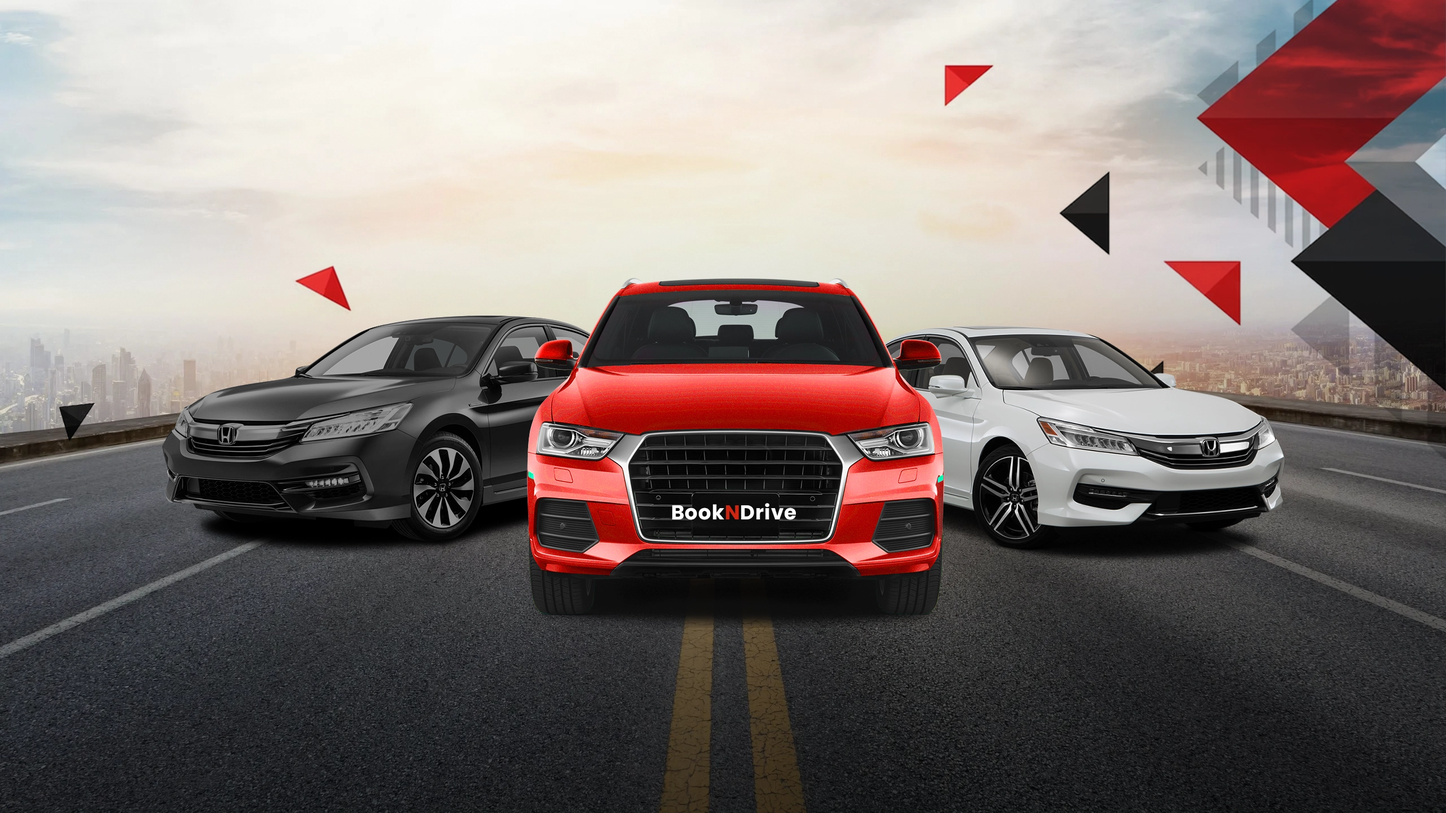
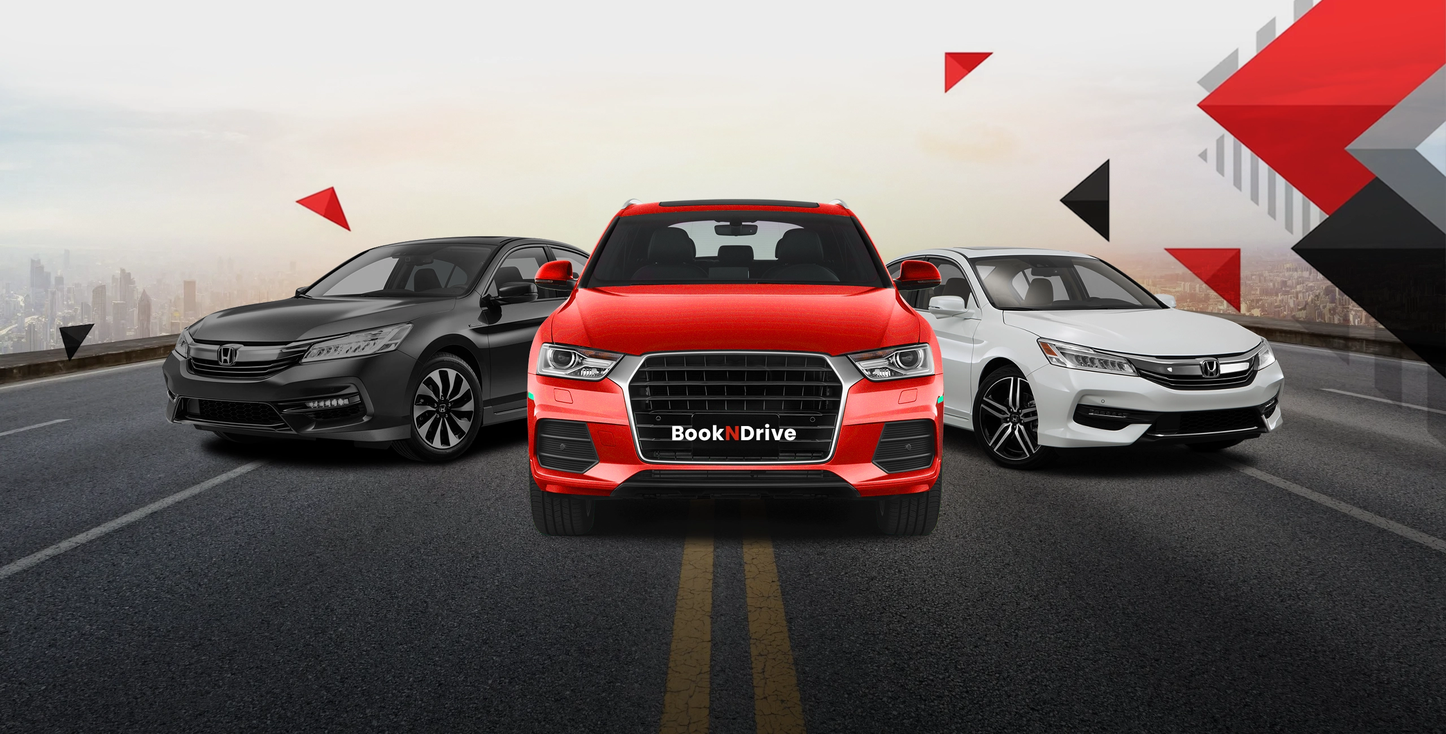
update

diff --git a/src/components/home/hero.js b/src/components/home/hero.js
@@ -4,7 +4,7 @@ import { Link } from "react-router-dom";
 import { Col, Container, Row } from "react-bootstrap";
 import "slick-carousel/slick/slick.css";
 import "slick-carousel/slick/slick-theme.css";
-import hero1 from "../../img/bg-theme.svg";
+import hero1 from "../../img/home_banner.webp";
 import hero2 from "../../img/banner-2.jpg";
 import TopHeader from '../../components/TopHeader';
 import Logo from "../../img/Bookndrive_logo_white.png";
@@ -42,33 +42,33 @@ const Hero = () => {
                         style={{ backgroundImage: `url(${hero1})` }}
                     >
                         <div className="rent-drive-main-caption">
-                          
-                                <Container className="mt-1">
-                                    <Row className="align-items-center h-100">
-                                    
-                                  
+
+                            <Container className="mt-1">
+                                <Row className="align-items-center h-100">
+
+
                                     <Col md={6} className="font-slidwe">
-                                    
-                                    <div>
+
+                                        <div>
                                             <span className="p-2 rounded bg-light mb-2 d-inline-block">
-                                            <svg xmlns="http://www.w3.org/2000/svg" width="18" height="18" fill="currentColor" class="bi bi-hand-thumbs-up-fill text-theme me-1 " viewBox="0 0 16 16"> <path d="M6.956 1.745C7.021.81 7.908.087 8.864.325l.261.066c.463.116.874.456 1.012.965.22.816.533 2.511.062 4.51a9.84 9.84 0 0 1 .443-.051c.713-.065 1.669-.072 2.516.21.518.173.994.681 1.2 1.273.184.532.16 1.162-.234 1.733.058.119.103.242.138.363.077.27.113.567.113.856 0 .289-.036.586-.113.856-.039.135-.09.273-.16.404.169.387.107.819-.003 1.148a3.163 3.163 0 0 1-.488.901c.054.152.076.312.076.465 0 .305-.089.625-.253.912C13.1 15.522 12.437 16 11.5 16H8c-.605 0-1.07-.081-1.466-.218a4.82 4.82 0 0 1-.97-.484l-.048-.03c-.504-.307-.999-.609-2.068-.722C2.682 14.464 2 13.846 2 13V9c0-.85.685-1.432 1.357-1.615.849-.232 1.574-.787 2.132-1.41.56-.627.914-1.28 1.039-1.639.199-.575.356-1.539.428-2.59z"/> </svg>
-                                                100% Trusted car rental platform in the world.</span>
-                                            <div> 
-                                                <span className="hero-title-1">Find Your Best </span>
-                                                <span className="hero-title-2">Dream Control for Rental</span>
+                                                <svg xmlns="http://www.w3.org/2000/svg" width="18" height="18" fill="currentColor" class="bi bi-hand-thumbs-up-fill text-theme me-1 " viewBox="0 0 16 16"> <path d="M6.956 1.745C7.021.81 7.908.087 8.864.325l.261.066c.463.116.874.456 1.012.965.22.816.533 2.511.062 4.51a9.84 9.84 0 0 1 .443-.051c.713-.065 1.669-.072 2.516.21.518.173.994.681 1.2 1.273.184.532.16 1.162-.234 1.733.058.119.103.242.138.363.077.27.113.567.113.856 0 .289-.036.586-.113.856-.039.135-.09.273-.16.404.169.387.107.819-.003 1.148a3.163 3.163 0 0 1-.488.901c.054.152.076.312.076.465 0 .305-.089.625-.253.912C13.1 15.522 12.437 16 11.5 16H8c-.605 0-1.07-.081-1.466-.218a4.82 4.82 0 0 1-.97-.484l-.048-.03c-.504-.307-.999-.609-2.068-.722C2.682 14.464 2 13.846 2 13V9c0-.85.685-1.432 1.357-1.615.849-.232 1.574-.787 2.132-1.41.56-.627.914-1.28 1.039-1.639.199-.575.356-1.539.428-2.59z" /> </svg>
+                                                Unlimited KMs, Zero Extra Charges.</span>
+                                            <div>
+                                                <span className="hero-title-1">Your Journey Starts in a Click </span>
+                                                <span className="hero-title-2">Just Book-n-Drive!</span>
                                             </div>
-                                            <p className="mt-4">Embark on journeys beyond city limits with BookNDrive! Experience the freedom of autonomous travel as our self-driving vehicles seamlessly take you on captivating adventures outside the city.</p>
+                                            {/* <p className="mt-4">Embark on journeys beyond city limits with BookNDrive! Experience the freedom of autonomous travel as our self-driving vehicles seamlessly take you on captivating adventures outside the city.</p>
                                             <Link to="/" onClick={onClick} className="rent-drive-btn">
                                                 Book Now
-                                            </Link>
-                                         </div>
+                                            </Link> */}
+                                        </div>
                                     </Col>
                                     <Col md={6}>
-                                        <img src={CartopRightBlack} className="img-fluid w-100" />
+                                        {/* <img src={CartopRightBlack} className="img-fluid w-100" /> */}
                                     </Col>
-                                    </Row>
-                                </Container>
-                       
+                                </Row>
+                            </Container>
+
                         </div>
                     </div>
                 </div>

diff --git a/src/components/Register.js b/src/components/Register.js
@@ -1,13 +1,11 @@
 import React from "react";
 import { Link } from "react-router-dom";
-import { useTranslation } from "react-i18next";
 import { Container, Row, Col } from "react-bootstrap";
 import { FaKey, FaLock, FaUser, FaRegEnvelope } from "react-icons/fa";
 
-import "./Register.css";
+// import "./Register.css";
 
 const Register = () => {
-    const { t } = useTranslation();
 
     const SubmitHandler = (e) => {
         e.preventDefault();
@@ -21,13 +19,13 @@ const Register = () => {
                         <div className="login-box">
                             <div className="login-page-heading">
                                 <FaKey />
-                                <h3>{t("register_page.singup")}</h3>
+                                <h3>Sign Up</h3>
                             </div>
                             <form onSubmit={SubmitHandler}>
                                 <div className="account-form-group">
                                     <input
                                         type="text"
-                                        placeholder={t("register_page.username")}
+                                        placeholder="Username"
                                         name="username"
                                     />
                                     <FaUser />
@@ -35,7 +33,7 @@ const Register = () => {
                                 <div className="account-form-group">
                                     <input
                                         type="text"
-                                        placeholder={t("register_page.email")}
+                                        placeholder="Email"
                                         name="username"
                                     />
                                     <FaRegEnvelope />
@@ -43,7 +41,7 @@ const Register = () => {
                                 <div className="account-form-group">
                                     <input
                                         type="password"
-                                        placeholder={t("register_page.password")}
+                                        placeholder="Password"
                                         name="password"
                                     />
                                     <FaLock />
@@ -51,7 +49,7 @@ const Register = () => {
                                 <div className="account-form-group">
                                     <input
                                         type="password"
-                                        placeholder={t("register_page.c_password")}
+                                        placeholder="Confirm Password"
                                         name="password"
                                     />
                                     <FaLock />
@@ -65,18 +63,18 @@ const Register = () => {
                                         />
                                         <label htmlFor="Freelance">
                                             <span />
-                                            {t("register_page.terms")}
+                                            Terms and Conditions
                                         </label>
                                     </p>
                                 </div>
                                 <p>
                                     <button type="submit" className="gauto-theme-btn">
-                                        {t("register_page.register_now")}
+                                        Register Now
                                     </button>
                                 </p>
                             </form>
                             <div className="login-sign-up">
-                                <Link to="/login">{t("register_page.have_account")}</Link>
+                                <Link to="/login">Already have an account?</Link>
                             </div>
                         </div>
                     </Col>

diff --git a/src/components/home/HotOffers.js b/src/components/home/HotOffers.js
@@ -212,7 +212,7 @@ class HotOffers extends Component {
                     <div className="single-offers px-2">
                         <div className="offer-image">
                             <Link to="/car-booking">
-                                <img src={'http://127.0.0.1:8000/public/' + val.image} alt="offer 1" />
+                                <img src={'http://127.0.0.1:8000/' + val.image} alt="offer 1" />
                             </Link>
                         </div>
                         <div className="offer-text">
@@ -318,8 +318,8 @@ class HotOffers extends Component {
                     <Row>
                         <Col md={12}>
                             <div className="site-heading">
-                                <h4>Come With</h4>
-                                <h2>Hot Offers</h2>
+                                {/* <h4>Come With</h4> */}
+                                <h2>Find Your Perfect Drive!</h2>
                             </div>
                         </Col>
                     </Row>

diff --git a/src/main-component/router.js b/src/main-component/router.js
@@ -6,6 +6,7 @@ import Homepage from "./HomePage";
 import Homepage2 from "./HomePage2";
 import LoginPage from "./LoginPage";
 import LoginPages from "./LoginPages";
+import Register from "../components/Register"; 
 import LoginPages2 from "./LoginPages2";
 import CarDetail from "./CarDetail";
 import CarBooking from "./CarBooking";
@@ -351,7 +352,7 @@ const AllRoute = () => {
                         <Route path='/otp' element={<OtpPage />} />
                         <Route path='/otps' element={<OtpPages />} />
                         <Route path="*" element={<Homepage />} />
-                        <Route path='/register'  element={<LoginPages />} />
+                        <Route path='/register'  element={<Register />} />
                         <Route path='/mpanel'  element={<LoginPages2 />} />
                         <Route path='/host'  element={<Host />} />
                         <Route path='/welcome'  element={<Welcome />} />

diff --git a/src/index.js b/src/index.js
@@ -1,5 +1,5 @@
 import React from "react";
-import ReactDOM from "react-dom";
+import { createRoot } from "react-dom/client";
 import App from "./main-component/App";
 import "./index.css";
 import "react-icons/fa";
@@ -8,13 +8,16 @@ import "bootstrap/dist/js/bootstrap.min.js";
 
 import reportWebVitals from "./reportWebVitals";
 
-ReactDOM.render(
+// Get the root element
+const rootElement = document.getElementById("root");
+
+// Create a root and render the app
+const root = createRoot(rootElement);
+root.render(
   <React.StrictMode>
     <App />
-  </React.StrictMode>,
-  document.getElementById("root")
+  </React.StrictMode>
 );
 
-// If you want to start measuring performance in your app, pass a function
-// to log results (for example: reportWebVitals(console.log))
+// Measure performance
 reportWebVitals();

diff --git a/src/index.css b/src/index.css
@@ -1397,7 +1397,7 @@ color: #ec3323;
     background-color: #eee;
     background-size: cover;
     background-repeat: no-repeat;
-    height: auto;
+    min-height: 90vh;
 }
 
 .slider-content-holder {
@@ -1498,7 +1498,7 @@ color: #ec3323;
 
 .rent-drive-find-area {
     margin-top: -50px;
-    background: #ececec;
+    background: #fff;
 }
 
 .find-box {
@@ -2122,10 +2122,10 @@ body .text-theme{
 
 .rent-drive-testimonial-area {
     position: relative;
-    /* background: url(img/bg-theme.svg) no-repeat fixed 0 0/cover; */
-    background: url(img/bg-theme.svg) no-repeat fixed 0 0/cover;
+    background: url(img/home_banner.webp) no-repeat fixed 0 0/cover;
     z-index: 1;
-    padding-bottom: 100px
+    padding-bottom: 100px;
+    min-height: 90vh;
 }
 
 .rent-drive-testimonial-area:after {

diff --git a/src/main-component/AllCarList.js b/src/main-component/AllCarList.js
@@ -169,7 +169,7 @@ class VendorListCar extends Component {
                 <td data-label="Color">{val.color}</td>
                 <td data-label="Price">{val.price}</td>
                
-                <td data-label="Car Image"><img alt={val.car_name} src={'http://127.0.0.1:8000/public/'+val.car_image} width='60'/> </td>
+                <td data-label="Car Image"><img alt={val.car_name} src={'http://127.0.0.1:8000/'+val.car_image} width='60'/> </td>
                 <td data-label="Addon">{val.created_at}</td>
                 <td data-label="Action">
                     <b className={bts} onClick={this.handleClick9.bind(this, val.id)} >{title}</b>

diff --git a/src/css/hero.css b/src/css/hero.css
@@ -2,7 +2,8 @@
    color:#282828;
    display: flex;
    align-items: center;
-   min-height: 400px;
+   min-height: 40px;
+   padding-top: 2.5%;
 }
 
 .font-title{
@@ -68,12 +69,13 @@
 } */
 .hero-title-1, .hero-title-2{
    color: #282828;
-   font-size: 3rem;
+   font-size: 2rem;
    font-weight: 700;
    display: block;
    line-height: 1;
 }
 .hero-title-2{
+   font-size: 3rem;
    color: #f00010;
 }
 @media only screen and (min-width: 600px) {

diff --git a/src/main-component/HomePage.js b/src/main-component/HomePage.js
@@ -20,9 +20,9 @@ const HomePage = () => {
             <Hero />
             <FindCar />
             {/* <About /> */}
-            <Service />
+            {/* <Service /> */}
             <HotOffers />
-            {/* <HowWorks/> */}
+            <HowWorks/>
             <WhyChoose/>
             <Testimonial />
             <Faq />
